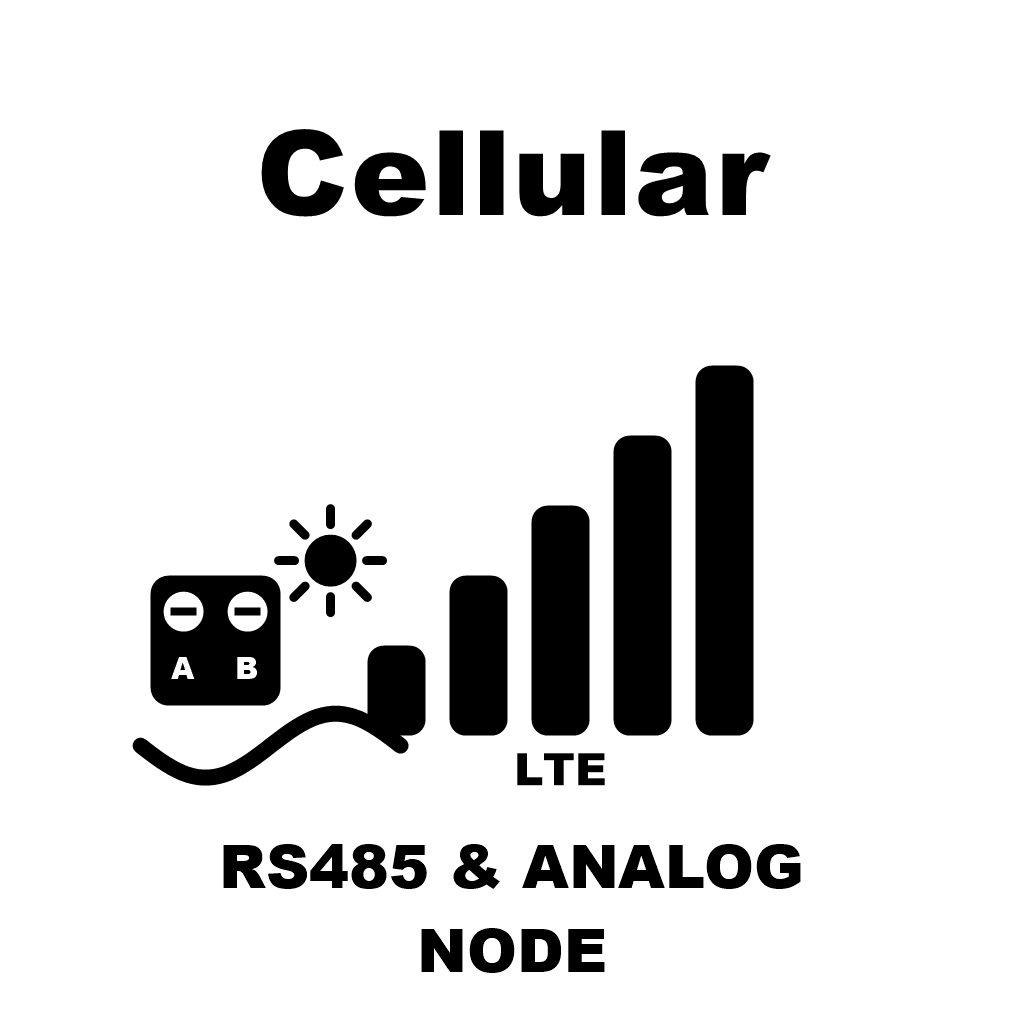
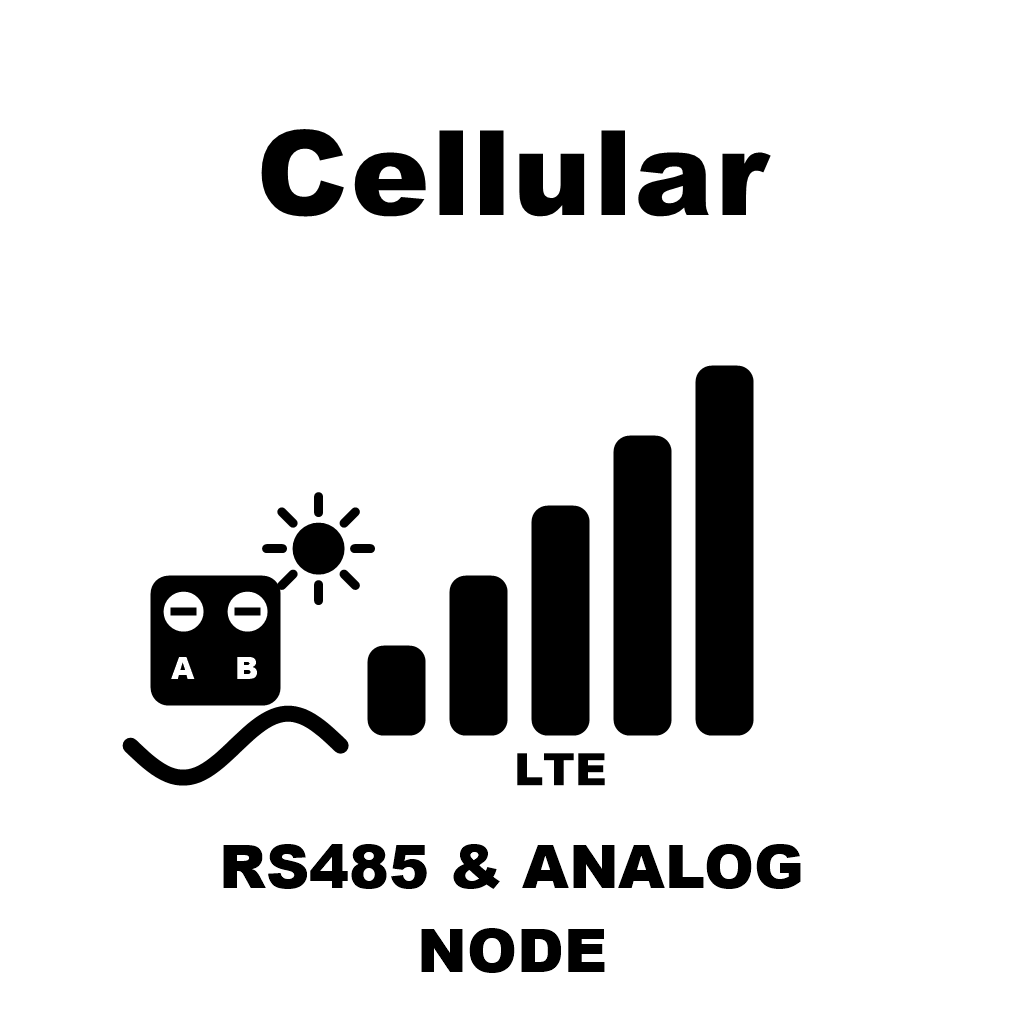
add

Changed region(s): [[0.125, 0.6875, 0.375, 0.7812], [0.25, 0.4688, 0.375, 0.5938], [0.375, 0.7188, 0.4062, 0.75]]

diff --git a/.md b/.md
@@ -75,7 +75,7 @@ macnman_firmware-s/
 │
 ├── Cellular/                            cellular (LTE) devices
 │   └── MY-C2-CV-X1/
-│       └── .gitkeep                         .bin and .png not uploaded yet
+│       └── MY-C2-CV-X1.png                  .bin not uploaded yet
 │
 └── Wi-Fi/                               Wi-Fi devices
     ├── Datalogger/
@@ -207,13 +207,12 @@ gets `D` after the power digit (e.g. `MY-L1D-TH-X1`); create `LoRaWAN/datalogger
 
 | Device | Interface | Description | Version | Files |
 |---|---|---|---|---|
-| `MY_C2_CV_X1` | RS485 | Cellular (LTE) solar-powered node with RS485 (Modbus) and analog inputs | V1.0.0 | **none yet** — `.gitkeep` only |
+| `MY_C2_CV_X1` | RS485 | Cellular (LTE) solar-powered node with RS485 (Modbus) and analog inputs | V1.0.0 | `.png` only — **no `.bin` yet** |
 
-`Cellular/MY-C2-CV-X1/` holds only a `.gitkeep` so far. The manifest entry is in place, with
-`binpath` `Cellular/MY-C2-CV-X1/MY-C2-CV-X1.bin` and `photopath` `Cellular/MY-C2-CV-X1/MY-C2-CV-X1.png`,
-but neither file has been uploaded, so the app gets a 404 for this device's firmware and
-photo until they are. Drop both files into that folder with exactly those names and delete the
-`.gitkeep`; the manifest entry then works unchanged.
+`Cellular/MY-C2-CV-X1/` holds the product icon, `MY-C2-CV-X1.png`, but no firmware yet. The
+manifest entry is in place with `binpath` `Cellular/MY-C2-CV-X1/MY-C2-CV-X1.bin`, so the app
+gets a 404 for this device's firmware until that file is uploaded with exactly that name; the
+entry then works unchanged.
 
 `protocol` is `Cellular` in the manifest. The firmware reports `CELLULAR` as the first `DEVINFO`
 value, and the Maya app switches to its cellular screens when that value contains `CELL`. Like
@@ -396,7 +395,7 @@ Entries: `MY_L1_TH_X1`, `MY_L1_NS_X1`, `MacSync_LPS_ToF_X1`,
 `MY_M1_DRS_X1`, `MY_M1_TH_X1`, `MY_M3_CV_X1`, `MY_C2_CV_X1`, `MS_WBSD_TH_X1`, `MY_W1D_SS7_X1`,
 `MY_W1D_TH_X1`, `MY_W1D_RTD_X1`, `MY_W3D_WEC_X1`, `MY_W3D_WPH_X1`, `MY_L3_CV_X1`, `MY_W1_CV_X1`,
 `MS_L5_CT_X1`, `MS-L35-CT-X1`, `MS-L3-CT-X2`. Every path in the manifest resolves to a real
-file except the two for `MY_C2_CV_X1`, whose `.bin` and `.png` are still to be uploaded (see the
+file except the `binpath` of `MY_C2_CV_X1`, whose `.bin` is still to be uploaded (see the
 Cellular section). `MacSync_LPS_ToF_X1` is the only device with more than one entry in
 `versions` — V1.0.0 and V1.0.1; see its version notes above for the difference.
 
